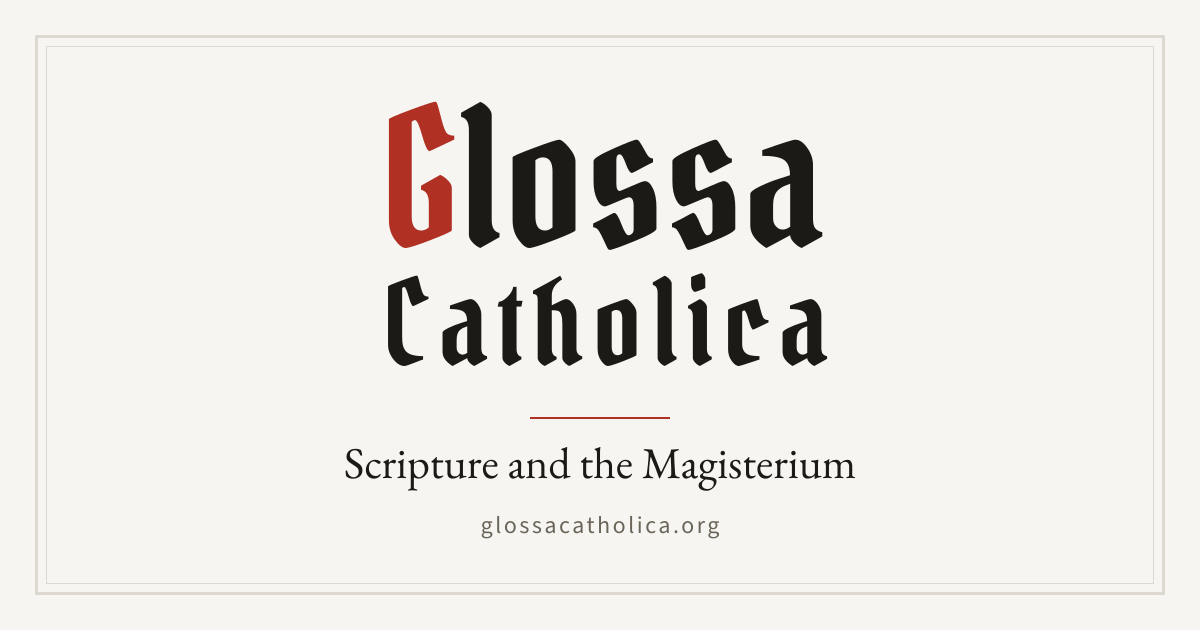
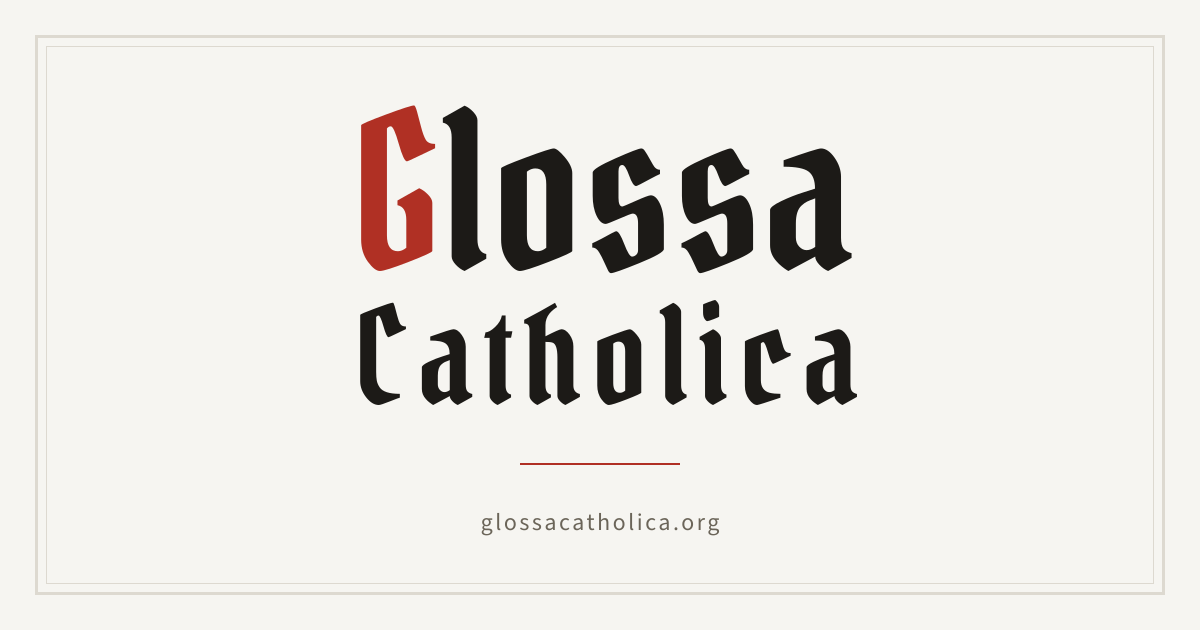
og: the card sets the wordmark and the domain and no sentence, one image being what a link in any of forty languages unfurls with

Changed region(s): [[0.2775, 0.1508, 0.7092, 0.6635], [0.2775, 0.7238, 0.7092, 0.7841], [0.4008, 0.8143, 0.6167, 0.8444]]

diff --git a/site/src/app.html b/site/src/app.html
@@ -105,9 +105,12 @@
 		     lose both lines of the wordmark.
 
 		     The image itself is generated by `scripts/og-image.mjs` from the
-		     manifest's name and description, in the site's own faces and
-		     palette; src/lib/shell-meta.test.ts fails when the tags below, the
-		     title, the description or the PNG's own dimensions drift apart. -->
+		     manifest's name, in the site's own faces and palette;
+		     src/lib/shell-meta.test.ts fails when the tags below, the title,
+		     the description or the PNG's own dimensions drift apart. It sets
+		     the wordmark and the domain and NO sentence — one image answers
+		     every language this site is read in, so a line of English on it is
+		     the one part of a shared link that cannot follow the reader. -->
 		<meta property="og:type" content="website" />
 		<meta property="og:site_name" content="Glossa Catholica" />
 		<meta property="og:title" content="Glossa Catholica" />
@@ -121,7 +124,7 @@
 		<meta property="og:image:height" content="630" />
 		<meta
 			property="og:image:alt"
-			content="The wordmark Glossa Catholica, set in blackletter within a double rule, above the line “Scripture and the Magisterium”."
+			content="The wordmark Glossa Catholica, set in blackletter within a double rule, over a short red rule and the address glossacatholica.org."
 		/>
 		<meta name="twitter:card" content="summary_large_image" />
 		<link rel="manifest" href="%sveltekit.assets%/manifest.webmanifest" />
